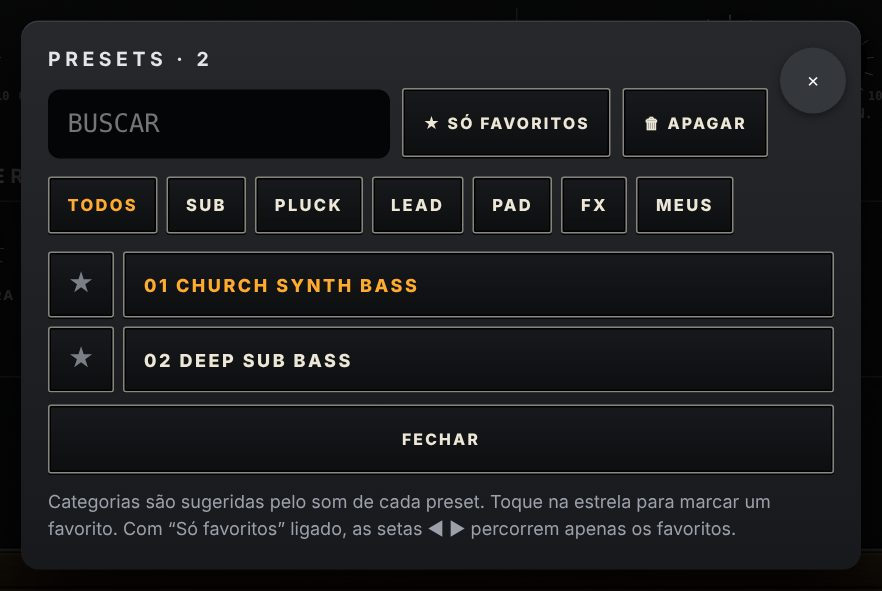
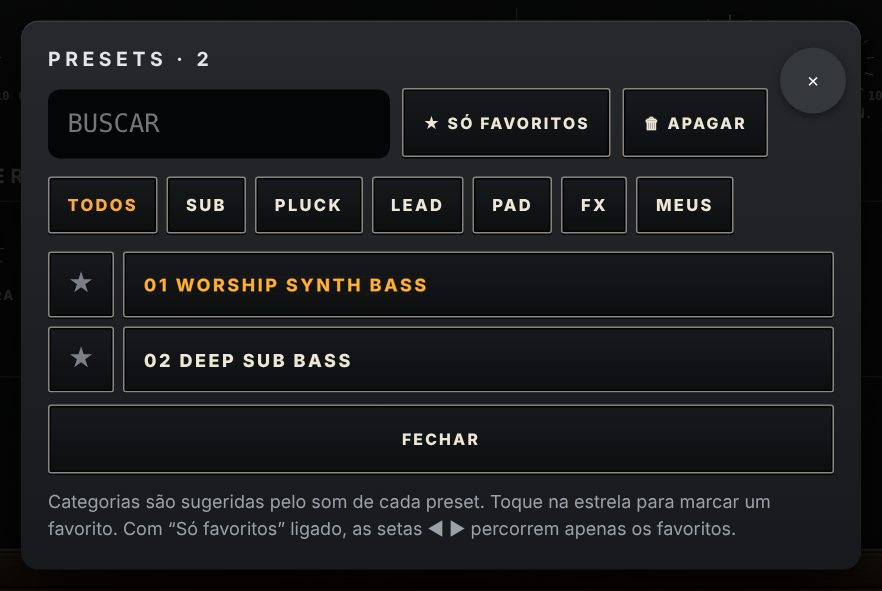
Add files via upload

Changed region(s): [[0.1837, 0.4569, 0.4898, 0.5178]]

diff --git a/aurasynthbass/manual/index.html b/aurasynthbass/manual/index.html
@@ -45,25 +45,25 @@
 <h3>Passo 4 — Escolha um som</h3>
 <ul><li>Use as setas ◀ ▶ do cabeçalho ou toque no visor para abrir a lista.</li><li>Experimente girar o <b>CUTOFF</b> enquanto toca: é o controle que mais muda o timbre.</li></ul><div class="tip">Se algo soar estranho depois de muitos ajustes, toque duas vezes nos knobs para voltar ao valor do preset, ou escolha o preset de novo na lista.</div><div class="tip warn">Notas presas? Toque no botão vermelho <b>PÂNICO</b>.</div></section>
 <section class="wp"><h2 id="s4-4-instalacao-e-ativacao">4 · Instalação e ativação</h2><h3>Windows</h3><ol class="steps"><li>Baixe <b>AURA-Synth-Windows.exe</b> em ledixplugins.com.br/aurasynthbass e abra o arquivo.</li><li>Se aparecer “O Windows protegeu seu computador”, toque em <b>Mais informações → Executar assim mesmo</b>.</li><li>Aceite o contrato, escolha a pasta e conclua. O instalador coloca o programa no menu Iniciar e o plugin <b>VST3</b> em <span class="k">C:\Program Files\Common Files\VST3</span>.</li></ol><h3>Mac</h3><ol class="steps"><li>Baixe <b>AURA-Synth-macOS.pkg</b> e abra. Se o Mac bloquear, clique com o botão direito no arquivo → <b>Abrir</b>; ou vá em Ajustes do Sistema → Privacidade e Segurança → <b>Abrir mesmo assim</b>.</li><li>Em “Personalizar”, escolha os componentes: <b>Aplicativo</b>, <b>VST3</b> e <b>Audio Unit (AU)</b>.</li><li>O app fica em Aplicativos; funciona em Macs Intel e Apple Silicon.</li></ol><h3>Teste grátis de 15 dias</h3><p>Na primeira abertura o AURA pede o seu <b>e-mail</b> (é preciso estar conectado à internet nesse momento). Depois disso ele funciona por <b>15 dias com todos os recursos</b>. No canto inferior direito aparece o selo <span class="pill">TESTE GRÁTIS · N DIAS</span>, que mostra quantos dias faltam.</p><p>Cada e-mail só pode usar o teste uma vez. Durante o teste você pode exportar os presets que você mesmo criou; os presets de fábrica só podem ser exportados com a licença ativa. Quando os 15 dias terminam, o AURA só abre com a chave de ativação.</p><h3>Ativar com a chave</h3><ol class="steps"><li>Depois da compra você recebe por e-mail uma <b>chave de ativação</b>.</li><li>Toque no selo (ou espere a tela de ativação aparecer ao fim do teste), cole a chave e toque <b>ATIVAR</b>. É preciso internet nesse momento.</li><li>O selo passa a mostrar <span class="pill">LICENCIADO</span>.</li></ol><h3>Até 3 aparelhos</h3><p>A mesma chave vale para <b>3 aparelhos seus</b>. Para mudar de computador, abra o AURA no aparelho antigo, toque no selo e escolha <b>DESATIVAR ESTE APARELHO</b>; a vaga volta e você ativa no novo. Se o limite foi atingido, a tela avisa. Não compartilhe a chave com outras pessoas: chaves usadas acima do limite podem ser bloqueadas.</p><table><tr><th>Situação</th><th>O que acontece</th></tr><tr><td>Sem internet</td><td>O AURA continua funcionando por até 30 dias sem precisar confirmar a licença</td></tr><tr><td>Passou de 30 dias offline</td><td>Pede para conectar uma vez e revalidar</td></tr><tr><td>Compra reembolsada</td><td>A licença é desativada na próxima confirmação</td></tr><tr><td>Data do computador alterada</td><td>O AURA bloqueia até a data ser corrigida</td></tr></table><div class="tip">Perdeu a chave ou precisa liberar um aparelho que não tem mais? Escreva para <a href="mailto:contato@ledixplugins.com.br">contato@ledixplugins.com.br</a>.</div></section>
-<section class="wp"><h2 id="s5-5-visao-geral-do-painel">5 · Visão geral do painel</h2><figure><img src="img/f01_visao.jpg?v=2" loading="lazy"><figcaption>O AURA completo.</figcaption></figure><ol class="leg"><li><b>Visor</b> — nome do preset e mensagens. Toque para abrir a lista.</li><li><b>Pânico</b> — silencia tudo.</li><li><b>Osciladores</b> — as três vozes: onda, oitava, afinação.</li><li><b>Mixer</b> — quanto de cada fonte entra no filtro.</li><li><b>Filtro</b> — brilho, ressonância, envelope e drive.</li><li><b>Envelopes e LFO</b> — movimento do som no tempo.</li><li><b>Efeitos</b> — dois efeitos e reverb.</li><li><b>Pitch e Mod</b> — rodas de expressão à esquerda do teclado.</li><li><b>Teclado</b> — toque direto na tela.</li></ol><div class="tip">O painel se adapta ao tamanho da tela. Em telas menores (por exemplo iPad Air 2) a fileira de efeitos fica oculta; use <i>Ajustes → Efeitos</i> para controlá-los.</div></section>
-<section class="wp"><h2 id="s6-6-cabecalho-e-visor">6 · Cabeçalho e visor</h2><figure><img src="img/f02_header.jpg?v=2" loading="lazy"><figcaption></figcaption></figure><ol class="leg"><li><b>LEDs de status</b> — POWER (áudio ligado), MIDI (chegada de dados), GATE (nota soando), ARP (arpejador ligado), OVERLOAD (sinal saturando).</li><li><b>◀</b> preset anterior.</li><li><b>Visor</b> — nome do preset; mensagens temporárias (“Toque em um knob…”, alertas de MIDI).</li><li><b>▶</b> próximo preset.</li><li><b>PÂNICO</b> — corta todas as notas e efeitos presos. Também responde ao CC 123 do controlador.</li><li><b>Cadeado</b> — trava os controles da tela contra toques acidentais. Toque de novo para destravar.</li><li><b>Ajustes</b> — abre o menu completo (capítulo 13).</li><li><b>Tela cheia</b> — “modo tocar”: esconde as barras do navegador.</li></ol><div class="cols2"><div><figure><img src="img/a_lock.jpg" loading="lazy"><figcaption>Com o cadeado ligado, os knobs não respondem.</figcaption></figure></div><div><h3>Quando usar o cadeado</h3><p>Em palco, ao segurar o tablet com a mão ou ao apoiar o dedo na tela. As teclas continuam tocando; só os controles do painel ficam travados.</p></div></div></section>
+<section class="wp"><h2 id="s5-5-visao-geral-do-painel">5 · Visão geral do painel</h2><figure><img src="img/f01_visao.jpg?v=3" loading="lazy"><figcaption>O AURA completo.</figcaption></figure><ol class="leg"><li><b>Visor</b> — nome do preset e mensagens. Toque para abrir a lista.</li><li><b>Pânico</b> — silencia tudo.</li><li><b>Osciladores</b> — as três vozes: onda, oitava, afinação.</li><li><b>Mixer</b> — quanto de cada fonte entra no filtro.</li><li><b>Filtro</b> — brilho, ressonância, envelope e drive.</li><li><b>Envelopes e LFO</b> — movimento do som no tempo.</li><li><b>Efeitos</b> — dois efeitos e reverb.</li><li><b>Pitch e Mod</b> — rodas de expressão à esquerda do teclado.</li><li><b>Teclado</b> — toque direto na tela.</li></ol><div class="tip">O painel se adapta ao tamanho da tela. Em telas menores (por exemplo iPad Air 2) a fileira de efeitos fica oculta; use <i>Ajustes → Efeitos</i> para controlá-los.</div></section>
+<section class="wp"><h2 id="s6-6-cabecalho-e-visor">6 · Cabeçalho e visor</h2><figure><img src="img/f02_header.jpg?v=3" loading="lazy"><figcaption></figcaption></figure><ol class="leg"><li><b>LEDs de status</b> — POWER (áudio ligado), MIDI (chegada de dados), GATE (nota soando), ARP (arpejador ligado), OVERLOAD (sinal saturando).</li><li><b>◀</b> preset anterior.</li><li><b>Visor</b> — nome do preset; mensagens temporárias (“Toque em um knob…”, alertas de MIDI).</li><li><b>▶</b> próximo preset.</li><li><b>PÂNICO</b> — corta todas as notas e efeitos presos. Também responde ao CC 123 do controlador.</li><li><b>Cadeado</b> — trava os controles da tela contra toques acidentais. Toque de novo para destravar.</li><li><b>Ajustes</b> — abre o menu completo (capítulo 13).</li><li><b>Tela cheia</b> — “modo tocar”: esconde as barras do navegador.</li></ol><div class="cols2"><div><figure><img src="img/a_lock.jpg?v=2" loading="lazy"><figcaption>Com o cadeado ligado, os knobs não respondem.</figcaption></figure></div><div><h3>Quando usar o cadeado</h3><p>Em palco, ao segurar o tablet com a mão ou ao apoiar o dedo na tela. As teclas continuam tocando; só os controles do painel ficam travados.</p></div></div></section>
 <section class="wp"><h2 id="s7-7-osciladores-e-saida">7 · Osciladores e saída</h2><figure><img src="img/a_osc.jpg" loading="lazy"><figcaption>Osciladores 1, 2, 3 e saída.</figcaption></figure><ol class="leg"><li><b>ONDA</b> — quadrada, serra ou triângulo (chave vertical).</li><li><b>OITAVA − / +</b> — sobe/desce o oscilador em oitavas.</li><li><b>GLIDE</b> (Osc 1) — tempo de deslize entre notas.</li><li><b>LARGURA</b> — largura de pulso da onda quadrada: muda o “corpo” do timbre.</li><li><b>LEGATO</b> — ON: notas ligadas não retocam o envelope.</li><li><b>DETUNE</b> (Osc 2 e 3) — desafina em semitons. Pequenos valores engrossam o som.</li><li><b>SYNC</b> (Osc 2) — sincroniza o Osc 2 ao Osc 1 para timbres agressivos.</li><li><b>TECLADO</b> (Osc 3) — ON: segue as notas; OFF: frequência fixa.</li><li><b>VOLUME</b> — nível geral de saída.</li></ol><div class="tip">Receita rápida de baixo grosso: Osc 1 em −2 oitavas, Osc 2 em −1 com detune de +0,05 st e Osc 3 desligado no mixer.</div></section>
 <section class="wp"><h2 id="s8-8-mixer-e-filtro">8 · Mixer e filtro</h2><figure><img src="img/a_mixfil.jpg" loading="lazy"><figcaption></figcaption></figure><ol class="leg"><li><b>OSC 1</b> — nível do oscilador 1 (Osc 2 e Osc 3 ao lado).</li><li><b>SUB</b> — oscilador extra uma oitava abaixo, para peso.</li><li><b>RUÍDO</b> — ruído branco/rosa (percussão, sopro).</li><li><b>OVERLOAD</b> — satura a mistura antes do filtro.</li><li><b>TIPO</b> — forma do sub: seno ou quadrada.</li><li><b>COR</b> — ruído branco (brilhante) ou rosa (mais escuro).</li><li><b>CUTOFF</b> — frequência de corte: o principal controle de brilho.</li><li><b>RESSON.</b> — realça a frequência de corte; valores altos “assobiam”.</li><li><b>ENV AMT</b> — quanto o envelope do filtro abre o corte a cada nota.</li><li><b>TECLADO</b> — faz o filtro acompanhar a nota (notas agudas ficam mais brilhantes).</li><li><b>DRIVE</b> — saturação dentro do filtro.</li><li><b>dB / OIT</b> — inclinação do filtro: 6, 12, 18 ou 24 dB por oitava (mais dB = corte mais firme).</li></ol></section>
 <section class="wp"><h2 id="s9-9-lfo-e-envelopes">9 · LFO e envelopes</h2><figure><img src="img/a_env.jpg" loading="lazy"><figcaption></figcaption></figure><ol class="leg"><li><b>ONDA</b> do LFO (triangular ou quadrada).</li><li><b>FONTE</b> — o que alimenta a modulação: LFO, OSC 3 ou aleatório (RAND).</li><li><b>RATE</b> — velocidade do LFO.</li><li><b>TOM</b> — quanto o LFO balança a afinação (vibrato).</li><li><b>FILTRO</b> — quanto balança o cutoff (wah).</li><li><b>LARGURA</b> — quanto balança a largura de pulso.</li><li><b>QUANT.</b> (Env. Pitch) — quanto a afinação sobe/cai no início da nota.</li><li><b>DECAY</b> (Env. Pitch) — duração dessa variação.</li><li><b>Envelope do filtro</b> — ATTACK, DECAY, SUSTAIN, RELEASE do brilho.</li><li><b>Envelope de volume</b> — os mesmos quatro estágios para o volume.</li><li><b>CURVA</b> — EXP (natural) ou LIN (linear) para o volume.</li></ol><div class="cols2"><div><svg viewBox="0 0 420 150" class="dg"><path d="M10 130 L70 20 L140 70 L270 70 L360 130" fill="rgba(255,138,61,.12)" stroke="#ff8a3d" stroke-width="3" stroke-linejoin="round"/><g stroke="#555" stroke-dasharray="3 4"><path d="M70 20V135M140 70V135M270 70V135"/></g><g fill="#d9d6cf" font-size="11" text-anchor="middle" font-family="Arial"><text x="40" y="146">ATTACK</text><text x="105" y="146">DECAY</text><text x="205" y="146">SUSTAIN</text><text x="315" y="146">RELEASE</text></g><text x="8" y="14" fill="#9a978f" font-size="10" font-family="Arial">nível</text><text x="392" y="144" fill="#9a978f" font-size="10" font-family="Arial">tempo</text><text x="150" y="62" fill="#7fe9ff" font-size="10" font-family="Arial">nível do sustain</text><text x="72" y="16" fill="#9a978f" font-size="10" font-family="Arial">tecla pressionada →</text></svg></div><div><p><b>Attack</b>: tempo até o pico. <b>Decay</b>: queda até o sustain. <b>Sustain</b>: nível enquanto a tecla segue pressionada. <b>Release</b>: tempo de apagar depois de soltar.</p></div></div></section>
 <section class="wp"><h2 id="s10-10-efeitos-e-reverb">10 · Efeitos e reverb</h2><figure><img src="img/a_fx.jpg" loading="lazy"><figcaption></figcaption></figure><ol class="leg"><li><b>Efeito 1 — TIPO</b>: desligado, distorção, fuzz ou bitcrusher.</li><li><b>DRIVE / NÍVEL</b> do Efeito 1.</li><li><b>Efeito 2 — TIPO</b>: chorus, flanger, phaser ou anel (ring).</li><li><b>MIX / VELOC. / PROF.</b> do Efeito 2: quanto entra, velocidade e profundidade.</li><li><b>REVERB</b> — liga/desliga.</li><li><b>TEMPO / NÍVEL</b> do reverb.</li></ol><div class="cols2"><div><figure><img src="img/s_fx.jpg" loading="lazy"><figcaption>Ajustes → Efeitos: mesma função, sempre disponível.</figcaption></figure></div><div><p>Os efeitos são <b>globais</b>: valem para todos os presets e ficam salvos no aparelho. O Delay tem tela própria (capítulo 13.2).</p><div class="tip">Ordem do sinal: Efeito 1 → Efeito 2 → Delay → Reverb. Chorus, phaser e reverb preservam o grave seco (abaixo de ~150 Hz) para o baixo não perder definição.</div><p>Reverb: Sala 1/2, Palco 1/2 e Catedral 1/2.</p><div class="tip">Em tablets pequenos a fileira de efeitos não cabe e fica oculta; os mesmos controles ficam em Ajustes → Efeitos.</div></div></div></section>
 <section class="wp"><h2 id="s11-11-teclado-e-rodas">11 · Teclado e rodas</h2><figure><img src="img/a_keys.jpg" loading="lazy"><figcaption></figcaption></figure><ol class="leg"><li><b>PITCH</b> — pitch bend: sobe até +2 semitons e desce até −12 (faixas ajustáveis em Avançado). Volta ao centro ao soltar.</li><li><b>MOD</b> — roda de modulação (CC 1): adiciona vibrato.</li><li><b>Teclas</b> — toque ou deslize. Os rótulos C3, C4 e C5 mostram as oitavas.</li></ol><h3>Controles que o AURA entende por MIDI</h3><table><tr><th>Mensagem</th><th>Efeito</th></tr><tr><td>Notas</td><td>Tocam o baixo; a intensidade (velocity) age conforme “Força da tecla” e “Sensibilidade”</td></tr><tr><td>Pitch bend</td><td>Sobe/desce a afinação</td></tr><tr><td>CC 1 (mod)</td><td>Vibrato</td></tr><tr><td>CC 64 (pedal)</td><td>Sustain: segura as notas enquanto pressionado</td></tr><tr><td>CC 123</td><td>Pânico: silencia tudo</td></tr><tr><td>Aftertouch</td><td>Vibrato, filtro ou volume (veja Ajustes → Aftertouch)</td></tr><tr><td>Program Change</td><td>Troca de preset (ou item da setlist, se ligada)</td></tr><tr><td>Knobs e botões</td><td>Qualquer um pode ser mapeado (capítulo 14)</td></tr></table><div class="tip">Para tocar mais notas além do alcance da tela, use o controlador MIDI e a transposição em Avançado (−12 / 0 / +12).</div></section>
-<section class="wp"><h2 id="s12-12-presets">12 · Presets</h2><div class="cols2"><div><figure><img src="img/d_list.jpg" loading="lazy"><figcaption>Lista de presets (toque no visor).</figcaption></figure></div><div><figure><img src="img/d_save.jpg" loading="lazy"><figcaption>Salvar preset.</figcaption></figure></div></div><h3>Escolher</h3><ul><li>Toque no <b>visor</b> para abrir a lista; toque num nome para carregar.</li><li>Na lista completa, os presets de fábrica aparecem <b>agrupados por família</b> (Sub, Drive, Octave, Funk/Pop/Rock, Lead, Pluck, Chorus e especiais), na mesma ordem do plugin. Digite no campo <b>BUSCAR</b> para achar pelo nome; com busca ou filtro ligados, os títulos de grupo somem.</li><li>Filtre por categoria: <b>TODOS, SUB, PLUCK, LEAD, PAD, FX, MEUS</b>. As categorias são sugeridas pelo som de cada preset.</li><li>Marque favoritos com <b>★</b>. Com “Só favoritos” ligado, as setas ◀ ▶ percorrem apenas os favoritos.</li><li><b>Apagar</b> remove só os seus presets listados.</li></ul><h3>Os timbres de fábrica</h3><ul><li>Vêm <b>36 timbres de fábrica</b>, todos com nomes no padrão <i>Família (Variação)</i>: <b>Church Synth Bass</b> e <b>Deep Sub Bass</b>; Sub — <b>Sub Bass</b>, <b>Sub Bass (Soft)</b>, <b>(Hard)</b> e <b>(808)</b>; Drive — <b>Drive</b>, <b>Drive (Soft)</b>, <b>(Heavy)</b> e <b>(Stage 2)</b>; Octave — <b>Octave (Clean)</b>, <b>(Wild)</b>, <b>(Soft)</b> e <b>(Hard)</b>; Funk — <b>Funk (Pluck)</b> e <b>Funk (Slap)</b>; <b>Pop (Round)</b> e <b>Rock (Grit)</b>; Lead — <b>Lead (Mono)</b> e <b>(Soft)</b>; Pluck — <b>Pluck (Short)</b> e <b>(Warm)</b>; Chorus — <b>Chorus</b> e <b>Chorus (Wide)</b>; e a família de baixos de sintetizador: <b>Sub</b>, <b>Sub Agro</b>, <b>Sub Arp</b>, <b>Sub Agro Arp</b>, <b>HRD Pluck</b>, <b>Duo-Glide</b>, <b>Angry Drop</b>, <b>Bad!Bass</b> e <b>$24$</b>.</li><li><b>Sub Arp</b> e <b>Sub Agro Arp</b> <b>ligam o arpejador</b> ao serem escolhidos (semicolcheias, 100 e 125 BPM) e o desligam quando você troca para outro preset. Dá para ajustar o padrão e o andamento em <i>Ajustes → Arpejador</i>. No plugin VST3/AU eles também ligam o arpejador do plugin (no Sub Arp e no Sub Agro Arp) e o desligam ao trocar de preset.</li><li>Nos três de oitava o <b>SUB</b> soa uma oitava abaixo da nota; nos outros ele reforça a própria nota, dando corpo.</li><li>Alguns deles <b>trazem os próprios efeitos</b>: escolher o <i>Chorus</i> liga o chorus, escolher o <i>Drive (Stage 2)</i> troca para a distorção. Presets que não trazem efeito nenhum deixam como está o que você tinha ligado.</li></ul><h3>Salvar</h3><ul><li><i>Ajustes → Salvar preset</i>, digite o nome e escolha <b>Salvar como novo</b>, <b>Substituir</b> ou <b>Excluir</b>.</li><li>Presets de fábrica não são alterados: o seu ajuste vira um preset novo, guardado neste aparelho (e na nuvem, se você entrou na conta).</li></ul><h3>Trazer e levar sons</h3><ul><li><b>Importar</b>: arquivos <b>.json</b> (backup do AURA) e os formatos <b>.syx</b> e <b>.mdp</b>.</li><li><b>Exportar backup</b>: gera um .json com os seus presets — útil para trocar de aparelho ou usar no plugin. Recurso da licença ativa: no período de teste fica bloqueado.</li></ul></section>
+<section class="wp"><h2 id="s12-12-presets">12 · Presets</h2><div class="cols2"><div><figure><img src="img/d_list.jpg?v=2" loading="lazy"><figcaption>Lista de presets (toque no visor).</figcaption></figure></div><div><figure><img src="img/d_save.jpg" loading="lazy"><figcaption>Salvar preset.</figcaption></figure></div></div><h3>Escolher</h3><ul><li>Toque no <b>visor</b> para abrir a lista; toque num nome para carregar.</li><li>Na lista completa, os presets de fábrica aparecem <b>agrupados por família</b> (Sub, Drive, Octave, Funk/Pop/Rock, Lead, Pluck, Chorus e especiais), na mesma ordem do plugin. Digite no campo <b>BUSCAR</b> para achar pelo nome; com busca ou filtro ligados, os títulos de grupo somem.</li><li>Filtre por categoria: <b>TODOS, SUB, PLUCK, LEAD, PAD, FX, MEUS</b>. As categorias são sugeridas pelo som de cada preset.</li><li>Marque favoritos com <b>★</b>. Com “Só favoritos” ligado, as setas ◀ ▶ percorrem apenas os favoritos.</li><li><b>Apagar</b> remove só os seus presets listados.</li></ul><h3>Os timbres de fábrica</h3><ul><li>Vêm <b>36 timbres de fábrica</b>, todos com nomes no padrão <i>Família (Variação)</i>: <b>Worship Synth Bass</b> e <b>Deep Sub Bass</b>; Sub — <b>Sub Bass</b>, <b>Sub Bass (Soft)</b>, <b>(Hard)</b> e <b>(808)</b>; Drive — <b>Drive</b>, <b>Drive (Soft)</b>, <b>(Heavy)</b> e <b>(Stage 2)</b>; Octave — <b>Octave (Clean)</b>, <b>(Wild)</b>, <b>(Soft)</b> e <b>(Hard)</b>; Funk — <b>Funk (Pluck)</b> e <b>Funk (Slap)</b>; <b>Pop (Round)</b> e <b>Rock (Grit)</b>; Lead — <b>Lead (Mono)</b> e <b>(Soft)</b>; Pluck — <b>Pluck (Short)</b> e <b>(Warm)</b>; Chorus — <b>Chorus</b> e <b>Chorus (Wide)</b>; e a família de baixos de sintetizador: <b>Sub</b>, <b>Sub Agro</b>, <b>Sub Arp</b>, <b>Sub Agro Arp</b>, <b>HRD Pluck</b>, <b>Duo-Glide</b>, <b>Angry Drop</b>, <b>Bad!Bass</b> e <b>$24$</b>.</li><li><b>Sub Arp</b> e <b>Sub Agro Arp</b> <b>ligam o arpejador</b> ao serem escolhidos (semicolcheias, 100 e 125 BPM) e o desligam quando você troca para outro preset. Dá para ajustar o padrão e o andamento em <i>Ajustes → Arpejador</i>. No plugin VST3/AU eles também ligam o arpejador do plugin (no Sub Arp e no Sub Agro Arp) e o desligam ao trocar de preset.</li><li>Nos três de oitava o <b>SUB</b> soa uma oitava abaixo da nota; nos outros ele reforça a própria nota, dando corpo.</li><li>Alguns deles <b>trazem os próprios efeitos</b>: escolher o <i>Chorus</i> liga o chorus, escolher o <i>Drive (Stage 2)</i> troca para a distorção. Presets que não trazem efeito nenhum deixam como está o que você tinha ligado.</li></ul><h3>Salvar</h3><ul><li><i>Ajustes → Salvar preset</i>, digite o nome e escolha <b>Salvar como novo</b>, <b>Substituir</b> ou <b>Excluir</b>.</li><li>Presets de fábrica não são alterados: o seu ajuste vira um preset novo, guardado neste aparelho (e na nuvem, se você entrou na conta).</li></ul><h3>Trazer e levar sons</h3><ul><li><b>Importar</b>: arquivos <b>.json</b> (backup do AURA) e os formatos <b>.syx</b> e <b>.mdp</b>.</li><li><b>Exportar backup</b>: gera um .json com os seus presets — útil para trocar de aparelho ou usar no plugin. Recurso da licença ativa: no período de teste fica bloqueado.</li></ul></section>
 <section class="wp"><h2 id="s13-13-menu-ajustes-visao-geral">13 · Menu Ajustes — visão geral</h2><div class="cols2"><div><figure><img src="img/m_topo.jpg" loading="lazy"><figcaption>O menu Ajustes (iOS-style).</figcaption></figure></div><div><p>Toque no botão de <b>sliders</b> no cabeçalho. O menu reúne tudo o que não precisa ficar no painel e está dividido em cinco grupos:</p><table><tr><th>Grupo</th><th>Para que serve</th></tr><tr><td>Presets</td><td>Salvar, importar, exportar, setlist e nuvem</td></tr><tr><td>Som e aparência</td><td>Efeitos, delay, arpejador, avançado e tema</td></tr><tr><td>Toque</td><td>Como as teclas e o controlador respondem</td></tr><tr><td>Ao vivo</td><td>Segurança no palco</td></tr><tr><td>Controlador</td><td>Conexão MIDI e mapeamento</td></tr></table><h3>Buscar ajuste</h3><p>O campo no topo filtra as linhas conforme você digita: escreva “delay” e só o que combina aparece.</p><figure><img src="img/m_busca.jpg?v=2" loading="lazy"><figcaption></figcaption></figure><p>À direita de cada linha o menu mostra o <b>estado atual</b> (por exemplo ÚLTIMA NOTA, DESLIGADO). Toque na linha para mudar ou abrir uma tela.</p><p>Toque em <b>OK</b> para fechar.</p></div></div></section>
 <section class="wp"><h2 id="s14-13-1-grupo-presets">13.1 · Grupo Presets</h2><figure><img src="img/m_presets.jpg" loading="lazy"><figcaption></figcaption></figure><table><tr><th>#</th><th>Linha</th><th>O que faz</th></tr><tr><td>1</td><td>Salvar preset</td><td>Abre a tela de salvar: como novo, substituir ou excluir.</td></tr><tr><td>2</td><td>Importar arquivos</td><td>Lê arquivos .json (backup AURA) e os formatos .syx e .mdp de outros sintetizadores compatíveis. Pode escolher vários de uma vez.</td></tr><tr><td>3</td><td>Exportar backup</td><td>Baixa um arquivo .json com todos os seus presets. Guarde-o em local seguro. Disponível só com licença ativa (bloqueado no teste).</td></tr><tr><td>3b</td><td>Exportar .syx / Exportar .mdp</td><td>Baixa um .zip com todos os presets (de fábrica e seus) em arquivos .syx (Moog Sub Phatty) ou .mdp (Minimoog Model D para iPad). É uma aproximação: efeitos, arpejo e LFO 2 não existem nesses formatos, e o .mdp troca o sub-oscilador por um oscilador 3 uma oitava abaixo. Só com licença ativa.</td></tr><tr><td>3b</td><td>Exportar .syx · Exportar .mdp</td><td>Baixam um .zip com todos os presets de fábrica e os seus, em formato <b>.syx</b> (Sub Phatty) ou <b>.mdp</b> (Minimoog Model D para iPad), um arquivo por preset. É uma aproximação: efeitos, arpejo e LFO 2 ficam de fora, e no .mdp o sub vira o oscilador 3. Disponível só com licença ativa (bloqueado no teste e na demonstração).</td></tr><tr><td>4</td><td>Setlist</td><td>Lista ordenada para o palco. Mostra VAZIA ou quantos itens.</td></tr><tr><td>5</td><td>Nuvem</td><td>Entra com e-mail e senha para sincronizar seus presets entre aparelhos. Mostra CONECTADO / DESCONECTADO.</td></tr></table><div class="cols2"><div><figure><img src="img/s_set.jpg" loading="lazy"><figcaption>Tela da Setlist.</figcaption></figure></div><div><h3>Setlist</h3><ol><li>Escolha um preset e toque em <b>+ Preset atual</b>; repita na ordem do show.</li><li>Ligue <b>Usar setlist</b>.</li><li>Agora as setas ◀ ▶ e o <b>Program Change</b> do controlador percorrem só essa lista: PC 0 chama o 1º item, PC 1 o 2º, e assim por diante.</li><li><b>Limpar</b> esvazia a lista.</li></ol></div></div><div class="cols2"><div><h3>Nuvem</h3><p>Seus presets salvos são gravados na nuvem e aparecem em todos os aparelhos em que você entrar. Sem internet, o app continua funcionando com a cópia local.</p></div><div><figure><img src="img/s_cloud.jpg" loading="lazy"><figcaption></figcaption></figure></div></div></section>
 <section class="wp"><h2 id="s15-13-2-grupo-som-e-aparencia">13.2 · Grupo Som e aparência</h2><figure><img src="img/m_som.jpg" loading="lazy"><figcaption></figcaption></figure><table><tr><th>#</th><th>Linha</th><th>O que faz</th></tr><tr><td>1</td><td>Efeitos</td><td>Tela com Efeito 1, Efeito 2 e Reverb (veja abaixo).</td></tr><tr><td>2</td><td>Delay</td><td>Eco: tempo, repetições e mix.</td></tr><tr><td>3</td><td>Arpejador</td><td>Toca as notas seguradas em sequência.</td></tr><tr><td>4</td><td>Avançado</td><td>Modulação extra, ondas, afinação, faixa das rodas, entrada externa e canal MIDI.</td></tr><tr><td>5</td><td>Tema</td><td>Alterna entre ESCURO e CLARO a cada toque.</td></tr></table><div class="cols2"><div><figure><img src="img/s_fx.jpg" loading="lazy"><figcaption>Efeitos</figcaption></figure></div><div><figure><img src="img/s_dly.jpg" loading="lazy"><figcaption>Delay</figcaption></figure><p><b>TEMPO</b> em ms entre ecos; <b>REPETIÇÕES</b> quantas vezes repete; <b>MIX</b> quanto do eco se mistura. Mix em 0% = delay desligado. O delay é gravado junto com cada preset.</p></div></div></section>
-<section class="wp"><h2 id="s16-13-2-arpejador-e-tema">13.2 · Arpejador e Tema</h2><div class="cols2"><div><figure><img src="img/s_arp.jpg" loading="lazy"><figcaption>Arpejador</figcaption></figure></div><div><h3>Arpejador</h3><p>Segure uma ou mais teclas e o AURA toca as notas em sequência.</p><table><tr><th>Opção</th><th>Função</th></tr><tr><td>Arpejador</td><td>Liga/desliga (LED ARP acende)</td></tr><tr><td>Padrão</td><td>Sobe, Desce, Sobe e Desce, Aleatório, Ordem (a ordem em que você tocou)</td></tr><tr><td>Divisão</td><td>1/4, 1/8, 1/8T (tercina), 1/16</td></tr><tr><td>Oitavas</td><td>1, 2 ou 3 oitavas de extensão</td></tr><tr><td>Swing</td><td>Atrasa as notas pares para dar balanço</td></tr><tr><td>Andamento</td><td>Velocidade em BPM</td></tr><tr><td>Duração</td><td>Comprimento de cada nota</td></tr><tr><td>Trava</td><td>LIGADA: o arpejo continua sem segurar as teclas</td></tr></table><p>Os ajustes valem para todos os presets. Dá para ligar/desligar pelo botão ARP do controlador (mapeado).</p></div></div><h3>Tema</h3><div class="cols2"><div><figure><img src="img/t_claro.jpg?v=2" loading="lazy"><figcaption>Tema CLARO (prateado) — o mesmo painel, com as mesmas funções, em versão luminosa.</figcaption></figure></div><div><p>No grupo Som e aparência, toque em <b>Tema</b> para alternar. Os dois temas são idênticos em funções e em posição de cada controle; só muda a cor: <b>escuro</b> (padrão, grafite) é ideal para palco; <b>claro</b> (prateado escovado) favorece telas pouco brilhantes sob sol. A escolha fica salva no aparelho.</p></div></div></section>
+<section class="wp"><h2 id="s16-13-2-arpejador-e-tema">13.2 · Arpejador e Tema</h2><div class="cols2"><div><figure><img src="img/s_arp.jpg" loading="lazy"><figcaption>Arpejador</figcaption></figure></div><div><h3>Arpejador</h3><p>Segure uma ou mais teclas e o AURA toca as notas em sequência.</p><table><tr><th>Opção</th><th>Função</th></tr><tr><td>Arpejador</td><td>Liga/desliga (LED ARP acende)</td></tr><tr><td>Padrão</td><td>Sobe, Desce, Sobe e Desce, Aleatório, Ordem (a ordem em que você tocou)</td></tr><tr><td>Divisão</td><td>1/4, 1/8, 1/8T (tercina), 1/16</td></tr><tr><td>Oitavas</td><td>1, 2 ou 3 oitavas de extensão</td></tr><tr><td>Swing</td><td>Atrasa as notas pares para dar balanço</td></tr><tr><td>Andamento</td><td>Velocidade em BPM</td></tr><tr><td>Duração</td><td>Comprimento de cada nota</td></tr><tr><td>Trava</td><td>LIGADA: o arpejo continua sem segurar as teclas</td></tr></table><p>Os ajustes valem para todos os presets. Dá para ligar/desligar pelo botão ARP do controlador (mapeado).</p></div></div><h3>Tema</h3><div class="cols2"><div><figure><img src="img/t_claro.jpg?v=3" loading="lazy"><figcaption>Tema CLARO (prateado) — o mesmo painel, com as mesmas funções, em versão luminosa.</figcaption></figure></div><div><p>No grupo Som e aparência, toque em <b>Tema</b> para alternar. Os dois temas são idênticos em funções e em posição de cada controle; só muda a cor: <b>escuro</b> (padrão, grafite) é ideal para palco; <b>claro</b> (prateado escovado) favorece telas pouco brilhantes sob sol. A escolha fica salva no aparelho.</p></div></div></section>
 <section class="wp"><h2 id="s17-13-3-grupo-toque">13.3 · Grupo Toque</h2><figure><img src="img/m_toque.jpg" loading="lazy"><figcaption></figcaption></figure><table><tr><th>#</th><th>Linha</th><th>Opções (toque para alternar)</th><th>O que faz</th></tr><tr><td>1</td><td>Prioridade de nota</td><td>Última nota · Mais grave · Mais aguda</td><td>Como o baixo (monofônico) escolhe a nota quando você segura várias teclas.</td></tr><tr><td>2</td><td>Força da tecla</td><td>Volume e brilho · Só volume · Só brilho</td><td>Para onde vai a intensidade do toque (velocity).</td></tr><tr><td>3</td><td>Sensibilidade ao toque</td><td>Desligada · Suave · Média · Forte</td><td>Quanto a intensidade influencia o som. “Desligada” = sempre o mesmo nível.</td></tr><tr><td>4</td><td>Aftertouch</td><td>Desligado · Vibrato · Filtro · Volume</td><td>O que a pressão extra sobre a tecla controla (se o seu teclado envia aftertouch).</td></tr><tr><td>5</td><td>Hold</td><td>Ligado · Desligado</td><td>Segura as notas como um pedal de sustain, sem soltar.</td></tr></table><div class="tip">Para baixo ao vivo, “Mais grave” costuma evitar que uma nota alta apertada sem querer tome o lugar da fundamental.</div><div class="tip">“Sensibilidade Média” é um bom ponto de partida com o M-Vave SMK-25.</div></section>
 <section class="wp"><h2 id="s18-13-4-grupo-ao-vivo">13.4 · Grupo Ao vivo</h2><figure><img src="img/m_vivo.jpg" loading="lazy"><figcaption></figcaption></figure><table><tr><th>#</th><th>Linha</th><th>O que faz</th></tr><tr><td>1</td><td>Modo leve (poupa CPU)</td><td>AUTO / LIGADO / DESLIGADO. Quando o aparelho não dá conta, desliga reverb e efeitos para evitar estalos. AUTO liga sozinho se detectar sobrecarga.</td></tr><tr><td>2</td><td>Preset de emergência</td><td>Carrega na hora um baixo simples e seguro. Use se um som sair errado no meio da música.</td></tr></table><h2 style="margin-top:6mm" id="s18-13-5-grupo-controlador">13.5 · Grupo Controlador</h2><figure><img src="img/m_ctrl.jpg" loading="lazy"><figcaption></figcaption></figure><table><tr><th>#</th><th>Linha</th><th>O que faz</th></tr><tr><td>1</td><td>Bluetooth</td><td>Conecta um controlador BLE-MIDI (Chrome/Edge). Mostra o nome do aparelho ou CONECTAR / SEM SUPORTE.</td></tr><tr><td>2</td><td>USB / MIDI do sistema</td><td>Procura e conecta controladores USB. Mostra NENHUM, N CONECTADO(S), CONECTAR ou SEM SUPORTE.</td></tr><tr><td>3</td><td>Mapear knobs e botões</td><td>Liga o modo de aprendizado (capítulo 14).</td></tr><tr><td>4</td><td>Ver mapeamentos</td><td>Lista quais botões do controlador estão ligados a quais controles.</td></tr><tr><td>5</td><td>Limpar mapeamento</td><td>Apaga todos os mapeamentos. Linha vermelha: pede confirmação.</td></tr></table></section>
 <section class="wp"><h2 id="s19-13-2-avancado-1-2">13.2 · Avançado (1/2)</h2><div class="cols2"><div><figure><img src="img/s_adv1.jpg" loading="lazy"><figcaption></figcaption></figure></div><div><p>A tela <b>Avançado</b> reúne ajustes finos. O que fica em cada preset: modulação, ondas, osciladores, teclado, filtro, LFO 2 e unísono.</p><h3>Modulação (Mod Mix)</h3><p>Mistura duas fontes (<b>A</b>: Osc 3 ou Env. Filtro; <b>B</b>: Ruído ou LFO) e envia o resultado ao pitch dos osciladores e/ou ao filtro.</p><h3>Ondas</h3><p>Formas extras para Osc 1, 2 e 3: quadrada, serra, triângulo, serra reversa e triângulo/serra.</p><h3>Osciladores e teclado</h3><p>Muda cada oscilador (mudo/ligado) e quanto o teclado controla o cutoff: contínuo, 1/3, 2/3 ou total.</p><h3>Filtro avançado</h3><p>Tipo <b>Clássico</b> ou <b>Ácido</b> (diodo de 4 polos). No modo clássico escolha passa-baixa, passa-faixa ou passa-alta. <b>Osc 2 → Filtro (FM)</b> modula o corte pelo Osc 2.</p><h3>LFO 2</h3><p>Segundo LFO: velocidade, onda (triângulo, serra, quadrada, S&H), atraso de entrada gradual, reinício a cada tecla e quanto envia ao filtro, ao pitch e à largura de pulso.</p></div></div></section>
 <section class="wp"><h2 id="s20-13-2-avancado-2-2">13.2 · Avançado (2/2)</h2><div class="cols2"><div><figure><img src="img/s_adv2.jpg" loading="lazy"><figcaption></figcaption></figure></div><div><h3>Modulações extras</h3><p>Envelope → largura de pulso e erro aleatório de afinação (dá o toque “analógico” instável).</p><h3>Osciladores extras</h3><p><b>Anel</b>: multiplica Osc 1 × Osc 2 (som metálico). <b>Uníssono</b> do Osc 1: +1, +2 ou +3 vozes extras com abertura de até ±16 cent.</p><h3>Afinação</h3><p><b>TUNE</b>: ajuste fino em cents. <b>Tom A-440</b>: nota de referência. <b>Erro de tecla</b> e <b>Escala</b>: Igual, Pitagórica, Carlos ou Partch 43.</p><h3>Controles (valem para o app todo)</h3><p>Faixa do pitch bend (para cima 2 st / para baixo 12 st), curva de toque (suave, média, dura) e <b>transposição MIDI</b> −12 / 0 / +12.</p><h3>Entrada de áudio externa</h3><p>Processa o sinal de entrada (ex.: seu baixo) pelo filtro: ligue, ajuste o nível e escolha o disparo (pelas teclas ou pelo sinal, com limiar). Use fones para evitar microfonia.</p><h3>Canal MIDI</h3><p>TODOS (padrão) ou um canal específico.</p></div></div><div class="tip">Modulação, ondas, osciladores e teclado são gravados no preset. Afinação, faixa das rodas, curva de toque, MIDI e entrada externa valem para todo o AURA neste aparelho.</div></section>
 <section class="wp"><h2 id="s21-14-mapear-controles-midi">14 · Mapear controles MIDI</h2><p>Você pode ligar qualquer botão ou knob físico do controlador a qualquer controle do AURA. O mapeamento fica salvo no aparelho.</p><figure><img src="img/a_learn.jpg" loading="lazy"><figcaption>A barra de aprendizado aparece sobre o teclado; os knobs ganham contorno laranja.</figcaption></figure><ol class="steps"><li>Ajustes → <b>Mapear knobs e botões</b>.</li><li><b>Toque</b> no controle do AURA que deseja ligar (um knob, uma seta de preset, HOLD, ARP, PÂNICO ou SEGURO).</li><li><b>Mexa</b> o botão ou knob físico do controlador. O visor confirma.</li><li>Repita para os demais e toque em <b>Concluir</b>.</li></ol><table><tr><th>Botão da barra</th><th>Função</th></tr><tr><td>HOLD</td><td>Mapeia um botão do controlador para ligar/desligar o Hold</td></tr><tr><td>ARP</td><td>Liga/desliga o arpejador</td></tr><tr><td>PÂNICO</td><td>Silencia tudo</td></tr><tr><td>SEGURO</td><td>Carrega o preset de emergência</td></tr><tr><td>CONCLUIR</td><td>Sai do modo de aprendizado</td></tr></table><div class="cols2"><div><figure><img src="img/d_map.jpg" loading="lazy"><figcaption>Ajustes → Ver mapeamentos</figcaption></figure></div><div><p><b>Ver mapeamentos</b> lista o que está ligado. <b>Limpar mapeamento</b> apaga tudo (linha vermelha, pede confirmação).</p></div></div></section>
 <section class="wp"><h2 id="s22-15-tocando-ao-vivo">15 · Tocando ao vivo</h2><div class="cols2"><div><h3>Antes do show</h3><ul><li>Instale o AURA e abra-o uma vez com internet.</li><li>Monte a <b>setlist</b> na ordem das músicas.</li><li>Mapeie ao controlador: <b>PÂNICO</b>, <b>HOLD</b> e as setas de preset.</li><li>Ative o <b>cadeado</b> e a <b>tela cheia</b>.</li><li>Deixe o <b>Modo leve em AUTO</b>.</li></ul></div><div><h3>Durante o show</h3><ul><li>Use as setas ou o Program Change do controlador para trocar de som.</li><li>Nota presa? <b>PÂNICO</b> (ou CC 123).</li><li>Som estranho ou silêncio? <b>Preset de emergência</b>.</li><li>Poucos recursos do aparelho? O modo leve corta reverb e efeitos para proteger o áudio.</li></ul></div></div><table><tr><th>Situação</th><th>Solução rápida</th></tr><tr><td>Toquei sem querer num knob</td><td>Toque duplo no knob volta ao valor do preset</td></tr><tr><td>Perdi a conexão Bluetooth</td><td>O app tenta reconectar sozinho e avisa no visor; se falhar, use Ajustes → Bluetooth</td></tr><tr><td>Estalos no áudio</td><td>Modo leve LIGADO; feche outros apps; use cabo/saída de áudio de boa qualidade</td></tr><tr><td>Quero outro som parecido</td><td>Carregue o preset, ajuste e use Salvar como novo</td></tr></table><div class="tip">Teste todo o set no aparelho que vai usar no palco: o desempenho varia entre iPad, tablet e computador.</div></section>
-<section class="wp"><h2 id="s23-16-receitas-de-som">16 · Receitas de som</h2><p>Parta do preset <b>01 Church Synth Bass</b> ou de qualquer um e ajuste só o indicado. Valores são pontos de partida.</p><table><tr><th>Som</th><th>Ajustes</th></tr><tr><td><b>Sub grave</b></td><td>Osc 1 −2 oit, quadrada · Sub 60% · Filtro CUTOFF baixo · RESSON. 0 · Env. volume: Attack mínimo, Sustain 100%</td></tr><tr><td><b>Pluck curto</b></td><td>Env. volume: Decay ~250 ms, Sustain 0, Release ~120 ms · Env. filtro: Decay ~200 ms, ENV AMT alto, CUTOFF baixo · Env. pitch QUANT. +2 st, DECAY ~40 ms</td></tr><tr><td><b>Baixo gordo</b></td><td>Osc 1 −2 oit, Osc 2 −1 oit com detune ±0,05 st · Mixer: Osc 1 100%, Osc 2 60% · Chorus no Efeito 2 (MIX 30%)</td></tr><tr><td><b>Lead com glide</b></td><td>Osc 1 e Osc 2 em serra · GLIDE ~80 ms · LEGATO ON · RESSON. 30% · Delay MIX 20%</td></tr><tr><td><b>Wah automático</b></td><td>LFO FILTRO ~0,5 oit · RATE ~3 Hz · RESSON. 40%</td></tr><tr><td><b>Pad lento</b></td><td>Env. volume: Attack ~600 ms, Release ~800 ms · Reverb ligado (Catedral)</td></tr><tr><td><b>Baixo ácido</b></td><td>Avançado → Filtro: Ácido (diodo 4 polos) · RESSON. 60% · ENV AMT alto · Decay curto</td></tr></table><p style="margin-top:3mm">Depois de ajustar, use <i>Ajustes → Salvar preset → Salvar como novo</i>.</p></section>
+<section class="wp"><h2 id="s23-16-receitas-de-som">16 · Receitas de som</h2><p>Parta do preset <b>01 Worship Synth Bass</b> ou de qualquer um e ajuste só o indicado. Valores são pontos de partida.</p><table><tr><th>Som</th><th>Ajustes</th></tr><tr><td><b>Sub grave</b></td><td>Osc 1 −2 oit, quadrada · Sub 60% · Filtro CUTOFF baixo · RESSON. 0 · Env. volume: Attack mínimo, Sustain 100%</td></tr><tr><td><b>Pluck curto</b></td><td>Env. volume: Decay ~250 ms, Sustain 0, Release ~120 ms · Env. filtro: Decay ~200 ms, ENV AMT alto, CUTOFF baixo · Env. pitch QUANT. +2 st, DECAY ~40 ms</td></tr><tr><td><b>Baixo gordo</b></td><td>Osc 1 −2 oit, Osc 2 −1 oit com detune ±0,05 st · Mixer: Osc 1 100%, Osc 2 60% · Chorus no Efeito 2 (MIX 30%)</td></tr><tr><td><b>Lead com glide</b></td><td>Osc 1 e Osc 2 em serra · GLIDE ~80 ms · LEGATO ON · RESSON. 30% · Delay MIX 20%</td></tr><tr><td><b>Wah automático</b></td><td>LFO FILTRO ~0,5 oit · RATE ~3 Hz · RESSON. 40%</td></tr><tr><td><b>Pad lento</b></td><td>Env. volume: Attack ~600 ms, Release ~800 ms · Reverb ligado (Catedral)</td></tr><tr><td><b>Baixo ácido</b></td><td>Avançado → Filtro: Ácido (diodo 4 polos) · RESSON. 60% · ENV AMT alto · Decay curto</td></tr></table><p style="margin-top:3mm">Depois de ajustar, use <i>Ajustes → Salvar preset → Salvar como novo</i>.</p></section>
 <section class="wp"><h2 id="s24-17-plugin-vst3-au">17 · Plugin VST3 / AU</h2><p>O motor do AURA também existe como plugin para o Reaper e outras DAWs. O GitHub Actions do projeto gera <b>AURA-Synth-macOS.zip</b> (VST3 e AU) e <b>AURA-Synth-Windows.zip</b> (VST3).</p><ol class="steps"><li>Baixe o zip na aba <i>Actions</i> do repositório e descompacte.</li><li><b>macOS:</b> copie o .vst3 para <span class="k">~/Library/Audio/Plug-Ins/VST3</span> e o .component para <span class="k">~/Library/Audio/Plug-Ins/Components</span>.</li><li><b>Windows:</b> copie o .vst3 para <span class="k">C:\Program Files\Common Files\VST3</span>.</li><li>No Reaper: Preferences → Plug-ins → VST → <i>Re-scan</i>. Em uma faixa, adicione <i>AURA Synth</i> (VSTi).</li><li>Troque presets pelas setas do plugin. <b>Importar</b> e <b>Exportar</b> usam o backup .json do app web — é assim que você leva seus sons do iPad para a DAW.</li></ol><div class="tip warn">Se o macOS bloquear o plugin por não ser assinado, libere em Ajustes do Sistema → Privacidade e Segurança.</div><div class="tip">O timbre do reverb do plugin difere levemente do app web, e o plugin ainda não tem todas as telas do app (como Ajustes → Avançado).</div></section>
 <section class="wp"><h2 id="s25-18-solucao-de-problemas">18 · Solução de problemas</h2><table><tr><th>Sintoma</th><th>O que fazer</th></tr><tr><td>Só aparece "Gire o aparelho"</td><td>O AURA funciona apenas deitado em celular e tablet. Gire o aparelho para a horizontal; no iPhone/iPad, desligue o bloqueio de orientação na Central de Controle.</td></tr><tr><td>Sem som</td><td>Toque na tela uma vez (liberar áudio); confira volume do aparelho, knob VOLUME e o LED POWER (verde). Veja se o mixer tem OSC 1 acima de 0%.</td></tr><tr><td>Teclado MIDI não responde</td><td>Aceite a permissão de MIDI; reconecte o cabo; abra Ajustes → USB / MIDI do sistema. No iPad use um adaptador compatível.</td></tr><tr><td>Visor mostra “MIDI: permissão negada”</td><td>Libere o MIDI nas permissões do site e recarregue a página.</td></tr><tr><td>Bluetooth “SEM SUPORTE”</td><td>Seu navegador não tem Web Bluetooth (Safari). Use Chrome/Edge ou conecte por USB.</td></tr><tr><td>Nota presa</td><td>Toque em PÂNICO (ou CC 123). Verifique se o Hold está desligado.</td></tr><tr><td>Estalos ou falhas</td><td>Ative o Modo leve; desligue reverb/efeitos pesados; feche outros apps.</td></tr><tr><td>O som ficou estranho</td><td>Toque duas vezes nos knobs ou carregue o preset de novo; em último caso use o Preset de emergência.</td></tr><tr><td>Sem efeitos na tela</td><td>Em telas pequenas a fileira de efeitos fica oculta: use Ajustes → Efeitos.</td></tr><tr><td>Diálogos apertados no celular</td><td>Use o celular na horizontal ou um tablet.</td></tr><tr><td>App antigo após atualização</td><td>Feche o app por completo e abra de novo para carregar o novo cache.</td></tr><tr><td>Perdi meus presets</td><td>Se você tinha feito backup, use Importar arquivos. Entrar na Nuvem também recupera os presets salvos.</td></tr></table></section>
 <section class="wp"><h2 id="s26-19-glossario">19 · Glossário</h2><div class="cols2"><table><tr><th>Termo</th><th>Significado</th></tr><tr><td>Attack/Decay/Sustain/Release</td><td>Fases de um envelope</td></tr><tr><td>BPM</td><td>Batidas por minuto</td></tr><tr><td>Cents / semitons</td><td>Medidas de afinação: 100 cents = 1 semitom</td></tr><tr><td>Cutoff</td><td>Frequência de corte do filtro</td></tr><tr><td>CC</td><td>Control Change: mensagem MIDI de botão/knob</td></tr><tr><td>DAW</td><td>Programa de gravação (Reaper, Logic…)</td></tr><tr><td>Detune</td><td>Desafinação intencional entre osciladores</td></tr><tr><td>Drive</td><td>Saturação</td></tr><tr><td>Glide</td><td>Deslize entre notas</td></tr><tr><td>Hold</td><td>Segura as notas (sustain)</td></tr></table><table><tr><th>Termo</th><th>Significado</th></tr><tr><td>LFO</td><td>Oscilador lento que modula outro parâmetro</td></tr><tr><td>Legato</td><td>Notas ligadas sem retocar o ataque</td></tr><tr><td>MIDI</td><td>Protocolo de comunicação entre instrumentos</td></tr><tr><td>Monofônico</td><td>Toca uma nota por vez</td></tr><tr><td>Pitch bend</td><td>Roda que dobra a afinação</td></tr><tr><td>Preset</td><td>Som salvo</td></tr><tr><td>Release</td><td>Tempo de apagar após soltar a tecla</td></tr><tr><td>Ressonância</td><td>Realce no ponto de corte do filtro</td></tr><tr><td>Setlist</td><td>Lista de presets para o show</td></tr><tr><td>Velocity</td><td>Intensidade do toque na tecla</td></tr></table></div><div class="idbox" style="margin-top:12mm"><div><svg class="wm" style="height:54px" viewBox="0 0 540 160"><g fill="none" stroke="#e9ebee" stroke-width="22"><polyline points="20,148 70,16 120,148"/><path d="M160 16 V96 a40 40 0 0 0 80 0 V16"/><path d="M290 148 V27 H337 a32 32 0 0 1 0 64 H290 M334 91 L378 148"/><polyline points="420,148 470,16 520,148"/></g><g fill="none" stroke="#E8890C" stroke-width="9" stroke-linecap="round" stroke-linejoin="round"><path d="M40 104 C 52 84, 58 84, 70 104 S 88 124, 100 104"/><path d="M440 108 H456 V92 H484 V108 H500"/></g></svg></div><div class="idtx">AURA SYNTH<br>Criado por Thiago R. Galvão · © 2026 · Todos os direitos reservados<br>Este manual acompanha o app e o plugin; as telas podem variar levemente entre versões.</div></div></section></main></div>
